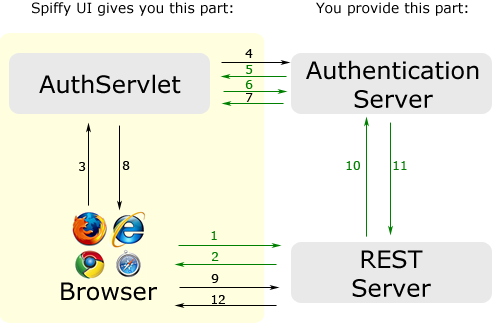
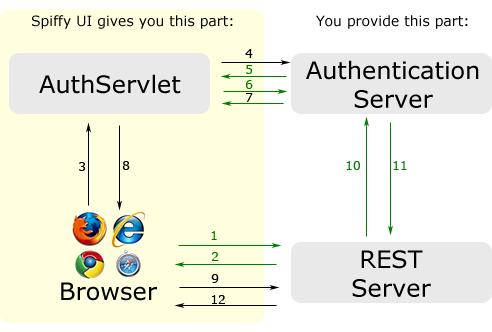
Changed the text on the authentication panel to reflect that our sample tokens don't timeout and moved the header in the login and logout images so it is inside the highlight rectangle.

Changed region(s): [[0.0, 0.0, 0.5488, 0.1205], [0.6402, 0.0, 0.9451, 0.0904]]

diff --git a/src/com/novell/spsample/client/AuthPanel.html b/src/com/novell/spsample/client/AuthPanel.html
@@ -42,7 +42,7 @@
     </p>
 
     <p>
-    <b>Tokens time out</b>.  Unlike your house key the token comes with a built-in expiration date.  If a bad guys gets your token it doesn't last.
+    <b>Tokens can time out</b>.  Unlike a typical sesstion the token can add a built-in expiration date.  If a bad guys gets your token it doesn't last.
     </p>
 
     <p>

diff --git a/src/com/novell/spsample/public/spsample.css b/src/com/novell/spsample/public/spsample.css
@@ -344,7 +344,8 @@ iframe {
 }
 
 #loginImage, #logoutImage {
-    margin-bottom: 10px;
+    margin-bottom: 5px;
+    margin-top: 5px;
 }
 
 #loginHeaderContainer {
